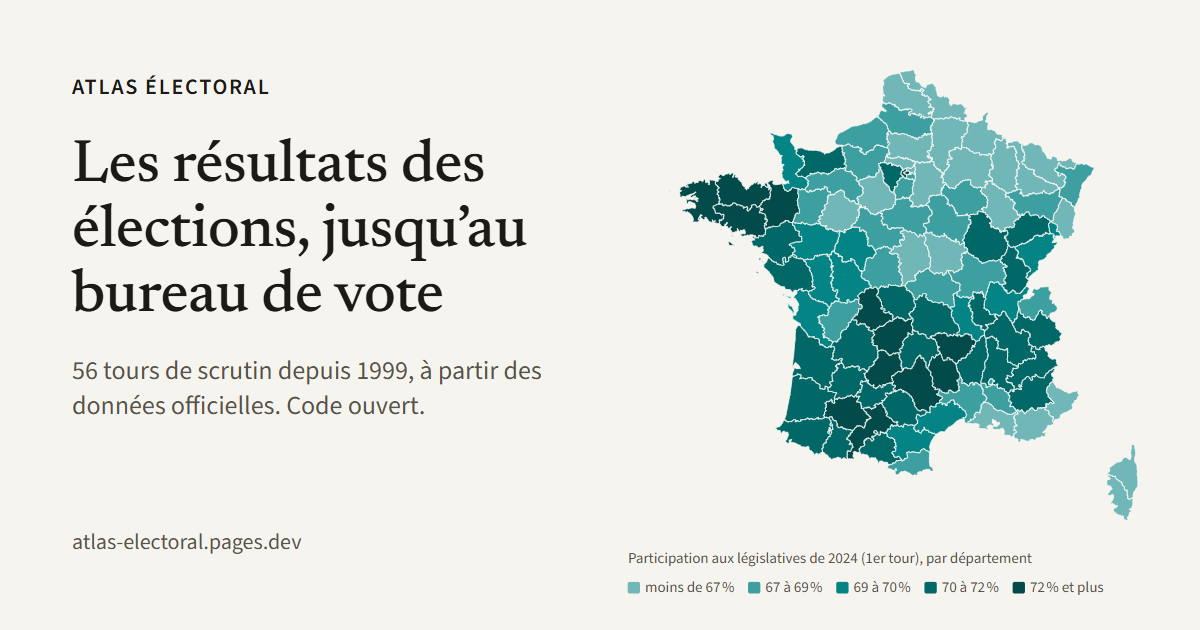
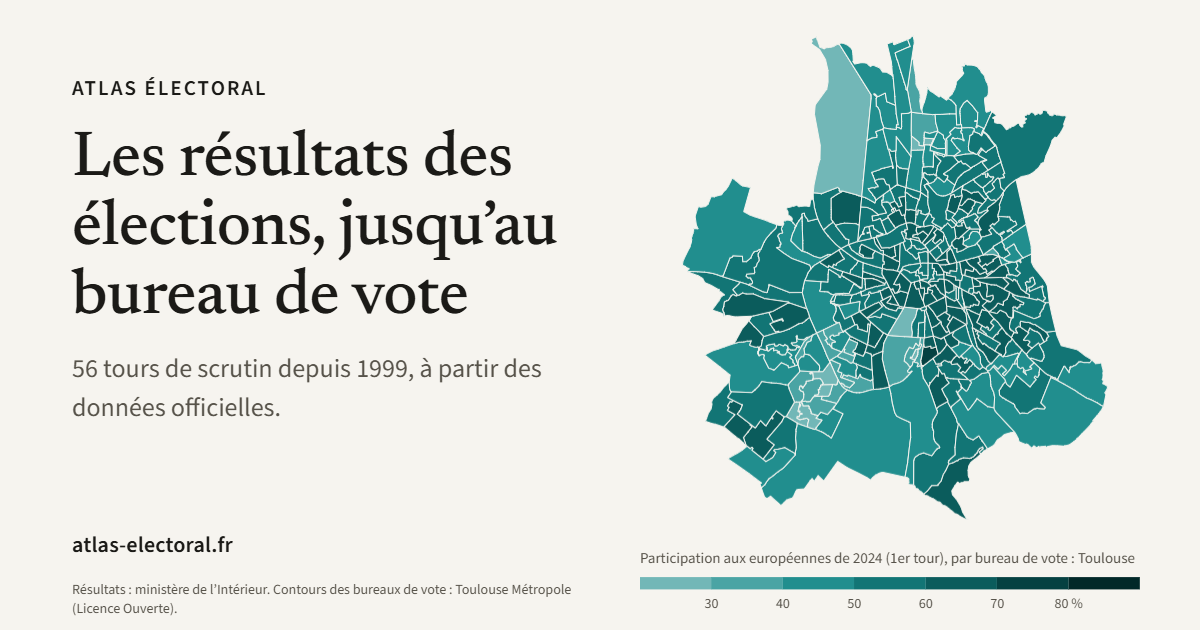
Image de présentation : carte au bureau de vote à Toulouse, sans « Code ouvert »

diff --git a/README.md b/README.md
@@ -1,6 +1,6 @@
 # Atlas électoral : signalements et conditions d'usage
 
-![Atlas électoral : participation par département aux législatives de 2024](partage.png)
+![Atlas électoral : participation aux européennes de 2024 par bureau de vote, à Toulouse](partage.png)
 
 **[atlas-electoral.fr](https://atlas-electoral.fr)** montre les résultats officiels des élections françaises (56 tours de
 scrutin, de 1999 à 2026), de la France entière jusqu'au **bureau de vote** (depuis 2022 ; à la commune avant).
